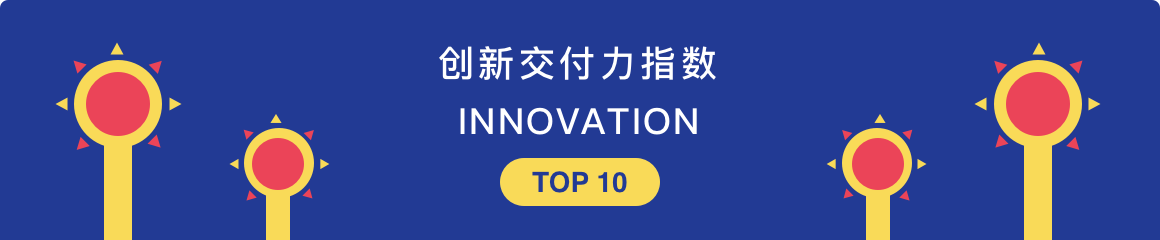
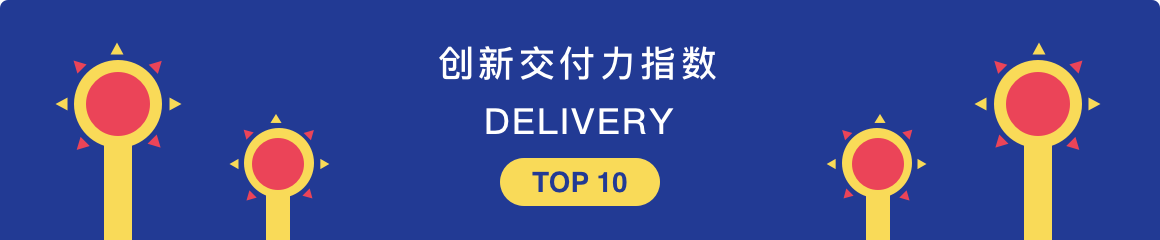
路由跳转锚点

Changed region(s): [[0.3724, 0.4375, 0.6207, 0.5833]]

diff --git a/src/router/index.js b/src/router/index.js
@@ -575,7 +575,17 @@ const router = new VueRouter({
   mode: 'history',
   linkActiveClass: 'is-active', // 这是链接激活时的class
   routes,
-  scrollBehavior
+  scrollBehavior(to, from, savedPosition) {
+    if (savedPosition) {
+      return savedPosition
+    } else {
+      const position = {}
+      if (to.hash) {
+        position.selector = to.hash
+        return position
+      }
+    }
+  }
 })
 
 router.beforeEach((to, from, next) => {
@@ -613,19 +623,6 @@ router.beforeEach((to, from, next) => {
     store.commit(types.HIDE_FOOTER, false)
   }
 })
-
-const scrollBehavior = (to, from, savedPosition) => {
-  console.log(111)
-  if (savedPosition) {
-    return savedPosition
-  } else {
-    const position = {}
-    if (to.hash) {
-      position.selector = to.hash
-      return position
-    }
-  }
-}
 
 router.afterEach((to, from) => {
   calcImgSize()

diff --git a/src/components/pages/home/innovation/InnovationHome.vue b/src/components/pages/home/innovation/InnovationHome.vue
@@ -33,7 +33,7 @@
             </div>
             <div class="dimension-title">
               <p>创新交付力指数</p>
-              <p>INNOVATION</p>
+              <p>DELIVERY</p>
               <p class="tc-red">TOP 10</p>
             </div>
           </router-link>
@@ -162,6 +162,11 @@
     background: #fafafa;
     padding: 20px 30px;
     margin: 10px 0;
+    transition: transform .218s ease;
+  }
+  .dimension-resolve:hover {
+    transform: translateY(-5px);
+    box-shadow: 0 9pt 24px rgba(10,10,10,.15);
   }
   .dimension-resolve .img-box {
     display: flex;

diff --git a/src/components/pages/home/innovation/InnovationList.vue b/src/components/pages/home/innovation/InnovationList.vue
@@ -2,7 +2,7 @@
   <div class="innovation-list">
     <h2><span class="icon">中国设计企业创新力指数排行榜</span></h2>
     <div class="inno-content">
-      <div id="innovation" class="leaderboard">
+      <div ref="innovation" id="innovation" class="leaderboard">
         <div class="inno-header clearfix">
           <el-col class="text-center" :span="2">排名</el-col>
           <el-col :span="4">企业名称</el-col>

diff --git a/src/components/block/Header.vue b/src/components/block/Header.vue
@@ -152,7 +152,7 @@
           article: {path: '/article/list'},
           design_case: {path: '/design_case/general_list'},
           commonly_sites: {path: '/vcenter/commonly_sites'},
-          innovation_index: {path: '/innovation_index'},
+          innovation_index: {path: '/innovation_index/home'},
           apply: {path: '/apply'},
           login: {path: '/login'},
           register: {path: '/register'},

diff --git a/src/components/pages/home/innovation/InnovationIndex.vue b/src/components/pages/home/innovation/InnovationIndex.vue
@@ -47,6 +47,7 @@ export default {
   },
   watch: {
     '$route'(to) {
+      console.log(to)
     }
   }
 }
